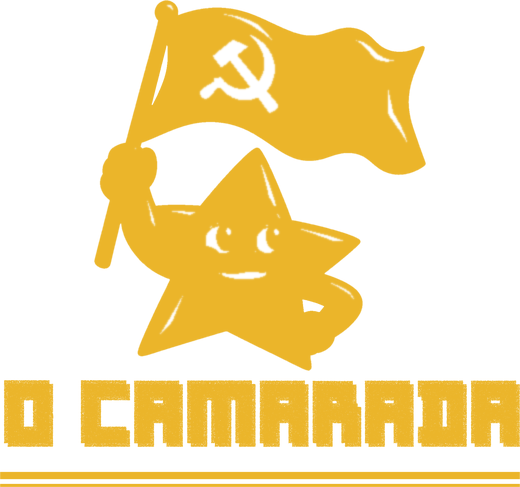
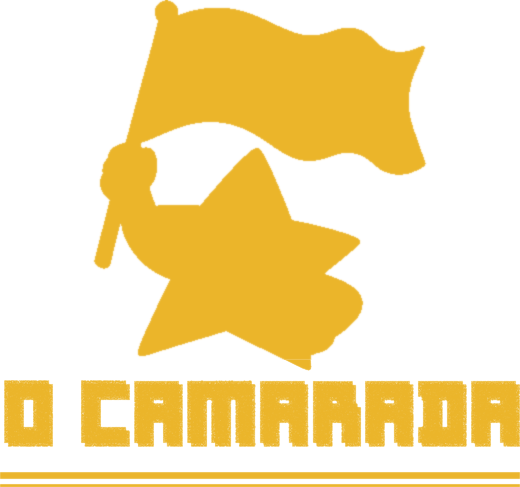
Marca: mascote d'O Camarada como silhueta chapada (sem rosto) nas versões amarela, branca e preta
Claude-Session: https://claude.ai/code/session_01XvS1qymZC48cEc2EdVsYp5

diff --git a/identidade/marca/variantes/LEIA-ME.md b/identidade/marca/variantes/LEIA-ME.md
@@ -7,4 +7,4 @@ Geradas a partir das logos oficiais (`../o-camarada-mascote-*.png`, `../coletivo
 | O Camarada horizontal (`o-camarada-h-*`) e com mascote (`o-camarada-v-*`) | vermelha (original), amarela, branca, preta | vermelha: fundos amarelo, bege, preto · amarela: fundo vermelho ou preto · branca: fundo vermelho, preto ou foto · preta: fundo amarelo ou bege |
 | Coletivo Lufã horizontal (`lufa-h-*`), vertical (`lufa-v-*`) e faixa (`lufa-f-*`) | colorida (original), amarela, branca, preta (uma cor só, com os blocos vazados) | colorida: fundos amarelo, preto, bege · amarela/branca: fundo vermelho ou foto · preta: fundo amarelo ou bege |
 
-Na O Camarada, a versão vermelha é a original colorida; as versões amarela, branca e preta são SILHUETAS de uma cor só (mascote e nome), com a foice e o martelo, o branco dos olhos e os dentes vazados.
+Na O Camarada, a versão vermelha é a original colorida; as versões amarela, branca e preta são SILHUETAS chapadas de uma cor só: o mascote (estrela, mão e bandeira) vira uma forma única, sem rosto nem vazados, e o nome vem na mesma cor.
